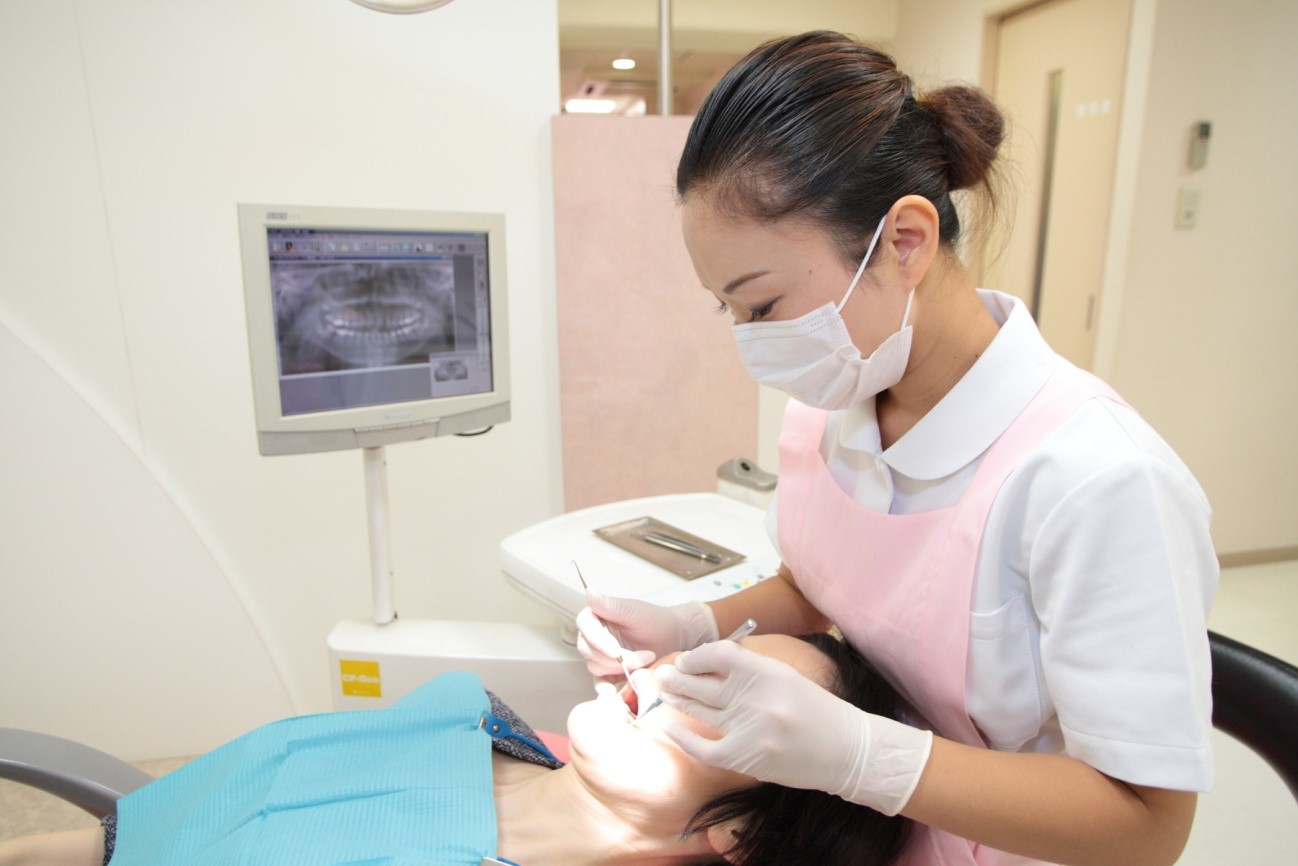
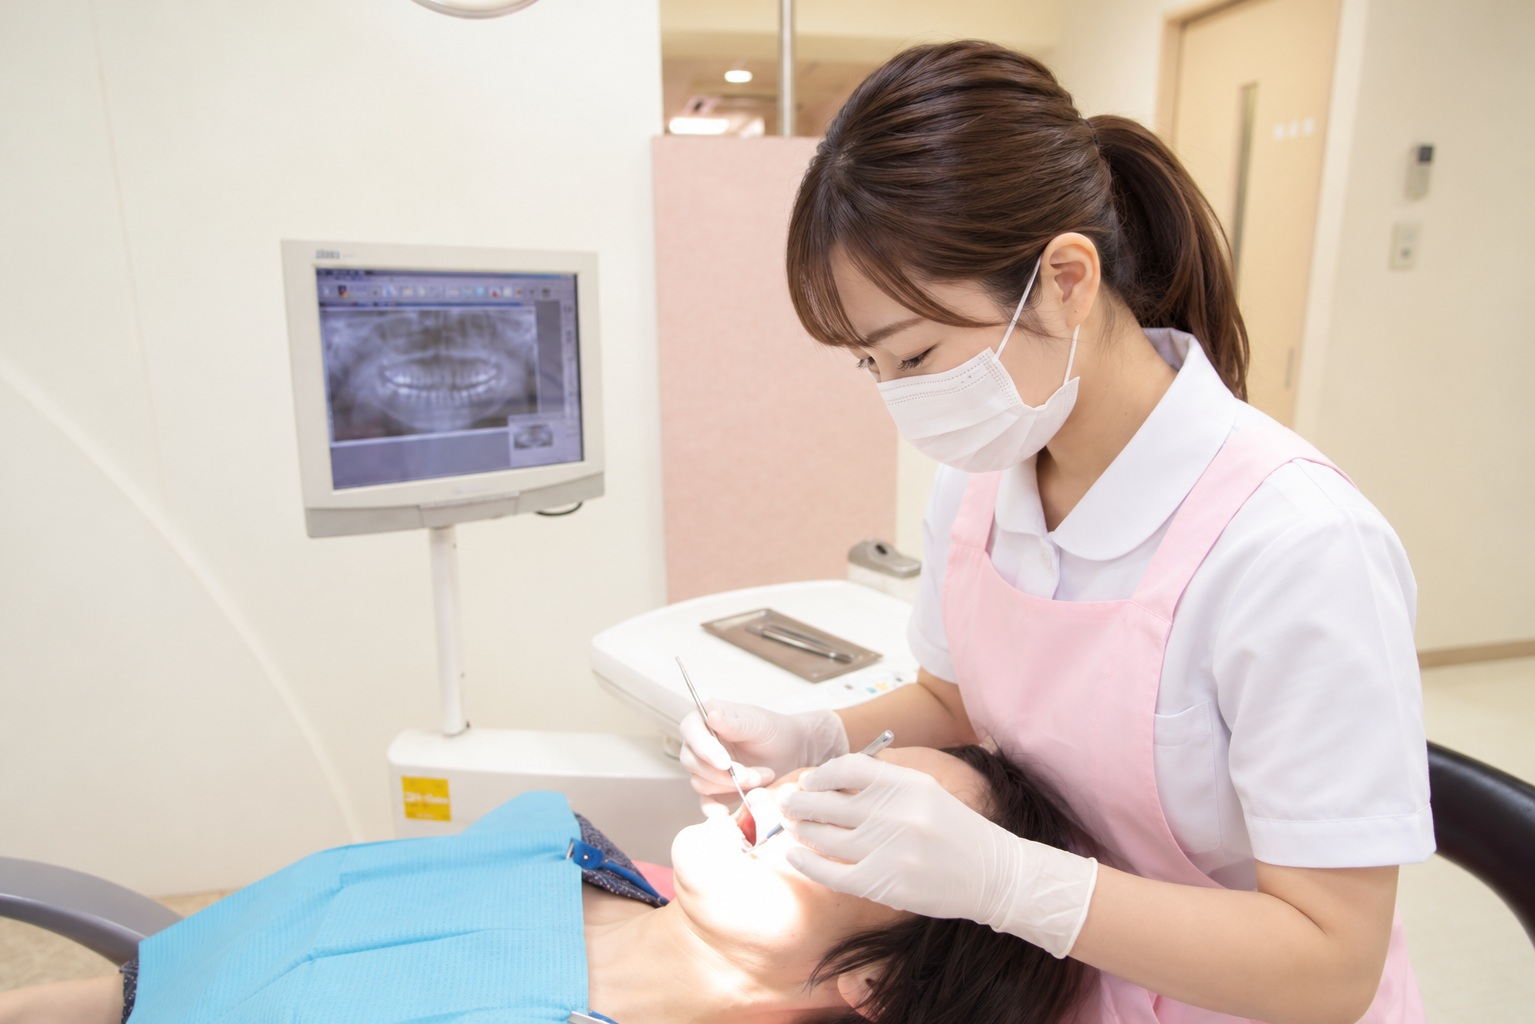
オゾン水生成器の記述削除、画像を別人のものに差し替え

diff --git a/dst/facility.html b/dst/facility.html
@@ -1,4 +1,4 @@
-<!doctype html><html lang="ja" dir="ltr" prefix="og: http://ogp.me/ns#"><head><script async src="https://www.googletagmanager.com/gtag/js?id=UA-51349924-1"></script><script>function gtag(){dataLayer.push(arguments)}window.dataLayer=window.dataLayer||[],gtag("js",new Date),gtag("config","UA-51349924-1")</script><meta charset="utf-8"><meta http-equiv="X-UA-Compatible" content="IE=edge,chrome=1"><meta name="viewport" content="width=device-width,initial-scale=1,shrink-to-fit=no"><title>院内紹介｜東大阪市 近鉄布施駅前の歯科医院・歯医者｜おかだ歯科クリニック</title><meta name="description" content="大阪・東大阪市近鉄布施駅前のおかだ歯科クリニックの院内紹介ページです。患者さまのプライバシーを守るため隣が見えないように配慮しています。感染予防として、高濃度オゾン水やオートクレーブ（高圧蒸気滅菌器）による滅菌を行っています。"><meta name="format-detection" content="email=no,telephone=no,address=no"><meta name="theme-color" content="#1978db"><link rel="canonical" href="https://okada-dental.org/facility.html"><link rel="stylesheet" href="https://fonts.googleapis.com/css?family=Material+Icons+Outlined"><link rel="stylesheet" href="slick/slick.css"><link rel="stylesheet" href="slick/slick-theme.css"><link rel="preconnect" href="https://fonts.gstatic.com"><link rel="stylesheet" href="https://fonts.googleapis.com/css2?family=Kiwi+Maru:wght@400;500&amp;display=swap"><link rel="stylesheet" href="css/style.css?date=202610261744"><link rel="icon" href="img/common/favicon.ico"><link rel="apple-touch-icon" href="img/common/apple-touch-icon.png"><meta name="msapplication-TileImage" content="img/common/logo.png"><meta name="msapplication-TileColor" content="#1978db"><meta property="og:url" content="https://okada-dental.org/facility.html"><meta property="og:title" content="院内紹介｜東大阪市 近鉄布施駅前の歯科医院・歯医者｜おかだ歯科クリニック"><meta property="og:site_name"><meta property="og:description" content="大阪・東大阪市近鉄布施駅前のおかだ歯科クリニックの院内紹介ページです。患者さまのプライバシーを守るため隣が見えないように配慮しています。感染予防として、高濃度オゾン水やオートクレーブ（高圧蒸気滅菌器）による滅菌を行っています。"><meta property="og:type" content="website"><meta property="og:image" content="https://okada-dental.org/img/common/ogp.jpg"><meta property="og:image:alt" content=""><meta property="og:locale" content="ja_JP"><meta name="twitter:card" content="summary_large_image"></head><body class="facility"><header class="header"><p class="headerLogo"><a href="index.html"><img src="img/common/logo.png" alt="大阪・東大阪市長堂布施駅前のおかだ歯科クリニック"></a></p><nav class="headerNavSp"><ul class="headerNavSp__menu"><li class="headerNavSp__menu__item--1"><a href="tel:0667839977"></a></li><li class="headerNavSp__menu__item--2"><a href="access.html"></a></li></ul></nav><nav class="headerNavPc"><ul class="headerNavPc__menu"><li class="headerNavPc__menu__item"><a href="index.html">トップページ<br><span>TOP</span></a></li><li class="headerNavPc__menu__item"><a href="doctor.html">ドクター紹介<br><span>DOCTOR</span></a></li><li class="headerNavPc__menu__item"><a href="#">医院紹介<br><span>ABOUT</span></a><ul class="headerNavPc__menu__item__submenu"><li class="headerNavPc__menu__item__submenu__item"><a href="concept.html">医院の特徴<br><span>CONCEPT</span></a></li><li class="headerNavPc__menu__item__submenu__item"><a href="facility.html">院内紹介<br><span>FACILITY</span></a></li></ul></li><li class="headerNavPc__menu__item"><a href="#">診療メニュー<br><span>SERVICE</span></a><ul class="headerNavPc__menu__item__submenu"><li class="headerNavPc__menu__item__submenu__item"><a href="general.html">一般歯科<br><span>GENERAL</span></a></li><li class="headerNavPc__menu__item__submenu__item"><a href="perio.html">歯周病<br><span>PERIO</span></a></li><li class="headerNavPc__menu__item__submenu__item"><a href="orthodontic.html">矯正歯科<br><span>ORTHODONTIC</span></a></li><li class="headerNavPc__menu__item__submenu__item"><a href="ceramic.html">セラミック治療<br><span>CERAMIC</span></a></li><li class="headerNavPc__menu__item__submenu__item"><a href="whitening.html">ホワイトニング<br><span>WHITENING</span></a></li><li class="headerNavPc__menu__item__submenu__item"><a href="implant.html">インプラント治療<br><span>IMPLANT</span></a></li><li class="headerNavPc__menu__item__submenu__item"><a href="denture.html">入れ歯の治療<br><span>DENTURE</span></a></li></ul></li><li class="headerNavPc__menu__item"><a href="price.html">料金<br><span>PRICE</span></a></li><li class="headerNavPc__menu__item"><a href="access.html">アクセス<br><span>ACCESS</span></a></li><li class="headerNavPc__menu__item"><a href="reservation.html">診療予約<br><span>RESERVATION</span></a></li></ul></nav></header><nav class="gnav"><div class="gnavToggle"><span class="gnavToggle__btn--open"></span></div><nav class="navContent"><ul class="navContent__menu"><li class="navContent__menu__item"><a href="index.html">トップページ&emsp;<span>TOP</span></a></li><li class="navContent__menu__item"><a href="doctor.html">ドクター紹介&emsp;<span>DOCTOR</span></a></li><li class="navContent__menu__item"><a href="#">医院紹介&emsp;<span>ABOUT</span></a><ul class="navContent__menu__item__submenu"><li class="navContent__menu__item__submenu__item"><a href="concept.html">医院の特徴&emsp;<span>CONCEPT</span></a></li><li class="navContent__menu__item__submenu__item"><a href="facility.html">院内紹介&emsp;<span>FACILITY</span></a></li></ul></li><li class="navContent__menu__item"><a href="#">診療メニュー&emsp;<span>SERVICE</span></a><ul class="navContent__menu__item__submenu"><li class="navContent__menu__item__submenu__item"><a href="general.html">一般歯科&emsp;<span>GENERAL</span></a></li><li class="navContent__menu__item__submenu__item"><a href="perio.html">歯周病&emsp;<span>PERIO</span></a></li><li class="navContent__menu__item__submenu__item"><a href="orthodontic.html">矯正歯科&emsp;<span>ORTHODONTIC</span></a></li><li class="navContent__menu__item__submenu__item"><a href="ceramic.html">セラミック治療&emsp;<span>CERAMIC</span></a></li><li class="navContent__menu__item__submenu__item"><a href="whitening.html">ホワイトニング&emsp;<span>WHITENING</span></a></li><li class="navContent__menu__item__submenu__item"><a href="implant.html">インプラント治療&emsp;<span>IMPLANT</span></a></li><li class="navContent__menu__item__submenu__item"><a href="denture.html">入れ歯の治療&emsp;<span>DENTURE</span></a></li></ul></li><li class="navContent__menu__item"><a href="price.html">料金&emsp;<span>PRICE</span></a></li><li class="navContent__menu__item"><a href="access.html">アクセス&emsp;<span>ACCESS</span></a></li><li class="navContent__menu__item"><a href="reservation.html">診療予約&emsp;<span>RESERVATION</span></a></li></ul></nav></nav><main class="facility__main"><h1 class="ttl--1">院内紹介&emsp;<span>FACILITY</span></h1><section><h2 class="ttl--2">■&ensp;診察室</h2><div class="imgDesc"><img class="imgDesc__img" src="img/facility/examRoom.jpg" alt="診療室"><p class="imgDesc__desc">各チェアはパーテーションで仕切られており隣が見えないように配慮しています。</p></div></section><section><h2 class="ttl--2">■&ensp;レントゲン</h2><div class="imgs3"><div class="imgs3__item"><img src="img/facility/xRay.jpg" alt="レントゲン"></div><div class="imgs3__item"><img src="img/facility/xRayImg.jpg" alt="レントゲン"></div><div class="imgs3__item"><img src="img/facility/xRayResult.jpg" alt="レントゲン"></div></div><p>当院では、デジタルＸ線画像解析システムを使用しております。<br>フィルムの代わりに高感度CCDセンサーを使用しているため、Ｘ線照射による被曝を軽減（被曝を最大90％以上軽減）できます。そのため、人体への被曝はほぼ無視できるレベルとなります。<br>また、Ｘ線は顔面部のみに照射しますので妊娠中の患者様も安心してレントゲン検査を受けていただけます<br>段階的に拡大等も出来る為、正確な診断にも役立ちます。</p></section><section><h2 class="ttl--2">■&ensp;ルーペ（拡大鏡）</h2><div class="imgDesc"><img class="imgDesc__img" src="img/facility/loupe.jpg" alt="ルーペ（拡大鏡）"><p class="imgDesc__desc">治療によって倍率の違うルーペを使い分けて診療しております。ルーペを使うことでより精度の高い治療ができます。</p></div></section><section><h2 class="ttl--2">■&ensp;CO2レーザー（炭酸ガスレーザー，opelaser pro）</h2><div class="imgDesc"><img class="imgDesc__img" src="img/facility/laser.jpg" alt="CO2レーザー（炭酸ガスレーザー，opelaser pro）"><p class="imgDesc__desc">当院ではCO2レーザーを治療に活用しています。<br>CO2レーザーは、殺菌消毒、鎮痛、消炎、切開、止血等に有効で、特に痛みを和らげたり治癒を促進します。<br>歯周病、親知らずの痛み、口内炎、顎関節症、インプラント等、幅広く使用しています。</p></div></section><section><h2 class="ttl--2">■&ensp;オゾン水生成器</h2><div class="imgDesc"><img class="imgDesc__img" src="img/facility/ozonatedWater.png" alt="オゾン水生成器 pro）"><p class="imgDesc__desc">オゾン水は残留性がなく安全性が高い除菌、洗浄剤で、器具などに付着している細菌に対して、強力な殺菌、除菌効果があります。<br>当院ではオゾン水を導入してから新しい器械が出ると買い替えを行い現在3台目となります。<br>現在使用しているオゾン水生成器は4ppm(mg/L)以上の高濃度オゾン水を作ることができ、使用器具の確実な除菌を実現しています。</p></div></section><section><h2 class="ttl--2">■&ensp;高圧蒸気滅菌器（オートクレーブ）</h2><div class="imgDesc"><img class="imgDesc__img" src="img/facility/autoclave.jpg" alt="高圧蒸気滅菌器（オートクレーブ）"><p class="imgDesc__desc">高圧蒸気で治療に使用する器具を滅菌します。</p></div></section><section><h2 class="ttl--2">■&ensp;ピエゾサージェリー</h2><div class="imgDesc"><img class="imgDesc__img" src="img/facility/piezosurgery.jpg" alt="ピエゾサージェリー"><p class="imgDesc__desc">ピエゾサージェリーは、超音波を利用して骨を切削する手術用医療機器です。<br>骨の中や周囲には血管や神経、軟組織がありますが、この機器は骨にしか反応しませんので、これらを傷つけることなく、安全に手術をすすめることができます。<br>さらに骨へのダメージも少ないため治癒も早まります。困難な抜歯やインプラント治療などの外科手術に使用します。</p></div></section></main><footer class="footer"><p class="footer__name">おかだ歯科クリニック</p><p class="footer__address">〒577-0056<br>東大阪市 長堂 1-2-20 陣内ビル2階</p><small class="footer__copyright">&copy;2026 おかだ歯科クリニック ALL RIGHTS RESERVED.</small></footer><script src="https://ajax.googleapis.com/ajax/libs/jquery/3.6.0/jquery.min.js"></script><script src="slick/slick.min.js"></script><script src="js/nav.js"></script><script type="application/ld+json">{
+<!doctype html><html lang="ja" dir="ltr" prefix="og: http://ogp.me/ns#"><head><script async src="https://www.googletagmanager.com/gtag/js?id=UA-51349924-1"></script><script>function gtag(){dataLayer.push(arguments)}window.dataLayer=window.dataLayer||[],gtag("js",new Date),gtag("config","UA-51349924-1")</script><meta charset="utf-8"><meta http-equiv="X-UA-Compatible" content="IE=edge,chrome=1"><meta name="viewport" content="width=device-width,initial-scale=1,shrink-to-fit=no"><title>院内紹介｜東大阪市 近鉄布施駅前の歯科医院・歯医者｜おかだ歯科クリニック</title><meta name="description" content="大阪・東大阪市近鉄布施駅前のおかだ歯科クリニックの院内紹介ページです。患者さまのプライバシーを守るため隣が見えないように配慮しています。感染予防として、高濃度オゾン水やオートクレーブ（高圧蒸気滅菌器）による滅菌を行っています。"><meta name="format-detection" content="email=no,telephone=no,address=no"><meta name="theme-color" content="#1978db"><link rel="canonical" href="https://okada-dental.org/facility.html"><link rel="stylesheet" href="https://fonts.googleapis.com/css?family=Material+Icons+Outlined"><link rel="stylesheet" href="slick/slick.css"><link rel="stylesheet" href="slick/slick-theme.css"><link rel="preconnect" href="https://fonts.gstatic.com"><link rel="stylesheet" href="https://fonts.googleapis.com/css2?family=Kiwi+Maru:wght@400;500&amp;display=swap"><link rel="stylesheet" href="css/style.css?date=202610261744"><link rel="icon" href="img/common/favicon.ico"><link rel="apple-touch-icon" href="img/common/apple-touch-icon.png"><meta name="msapplication-TileImage" content="img/common/logo.png"><meta name="msapplication-TileColor" content="#1978db"><meta property="og:url" content="https://okada-dental.org/facility.html"><meta property="og:title" content="院内紹介｜東大阪市 近鉄布施駅前の歯科医院・歯医者｜おかだ歯科クリニック"><meta property="og:site_name"><meta property="og:description" content="大阪・東大阪市近鉄布施駅前のおかだ歯科クリニックの院内紹介ページです。患者さまのプライバシーを守るため隣が見えないように配慮しています。感染予防として、高濃度オゾン水やオートクレーブ（高圧蒸気滅菌器）による滅菌を行っています。"><meta property="og:type" content="website"><meta property="og:image" content="https://okada-dental.org/img/common/ogp.jpg"><meta property="og:image:alt" content=""><meta property="og:locale" content="ja_JP"><meta name="twitter:card" content="summary_large_image"></head><body class="facility"><header class="header"><p class="headerLogo"><a href="index.html"><img src="img/common/logo.png" alt="大阪・東大阪市長堂布施駅前のおかだ歯科クリニック"></a></p><nav class="headerNavSp"><ul class="headerNavSp__menu"><li class="headerNavSp__menu__item--1"><a href="tel:0667839977"></a></li><li class="headerNavSp__menu__item--2"><a href="access.html"></a></li></ul></nav><nav class="headerNavPc"><ul class="headerNavPc__menu"><li class="headerNavPc__menu__item"><a href="index.html">トップページ<br><span>TOP</span></a></li><li class="headerNavPc__menu__item"><a href="doctor.html">ドクター紹介<br><span>DOCTOR</span></a></li><li class="headerNavPc__menu__item"><a href="#">医院紹介<br><span>ABOUT</span></a><ul class="headerNavPc__menu__item__submenu"><li class="headerNavPc__menu__item__submenu__item"><a href="concept.html">医院の特徴<br><span>CONCEPT</span></a></li><li class="headerNavPc__menu__item__submenu__item"><a href="facility.html">院内紹介<br><span>FACILITY</span></a></li></ul></li><li class="headerNavPc__menu__item"><a href="#">診療メニュー<br><span>SERVICE</span></a><ul class="headerNavPc__menu__item__submenu"><li class="headerNavPc__menu__item__submenu__item"><a href="general.html">一般歯科<br><span>GENERAL</span></a></li><li class="headerNavPc__menu__item__submenu__item"><a href="perio.html">歯周病<br><span>PERIO</span></a></li><li class="headerNavPc__menu__item__submenu__item"><a href="orthodontic.html">矯正歯科<br><span>ORTHODONTIC</span></a></li><li class="headerNavPc__menu__item__submenu__item"><a href="ceramic.html">セラミック治療<br><span>CERAMIC</span></a></li><li class="headerNavPc__menu__item__submenu__item"><a href="whitening.html">ホワイトニング<br><span>WHITENING</span></a></li><li class="headerNavPc__menu__item__submenu__item"><a href="implant.html">インプラント治療<br><span>IMPLANT</span></a></li><li class="headerNavPc__menu__item__submenu__item"><a href="denture.html">入れ歯の治療<br><span>DENTURE</span></a></li></ul></li><li class="headerNavPc__menu__item"><a href="price.html">料金<br><span>PRICE</span></a></li><li class="headerNavPc__menu__item"><a href="access.html">アクセス<br><span>ACCESS</span></a></li><li class="headerNavPc__menu__item"><a href="reservation.html">診療予約<br><span>RESERVATION</span></a></li></ul></nav></header><nav class="gnav"><div class="gnavToggle"><span class="gnavToggle__btn--open"></span></div><nav class="navContent"><ul class="navContent__menu"><li class="navContent__menu__item"><a href="index.html">トップページ&emsp;<span>TOP</span></a></li><li class="navContent__menu__item"><a href="doctor.html">ドクター紹介&emsp;<span>DOCTOR</span></a></li><li class="navContent__menu__item"><a href="#">医院紹介&emsp;<span>ABOUT</span></a><ul class="navContent__menu__item__submenu"><li class="navContent__menu__item__submenu__item"><a href="concept.html">医院の特徴&emsp;<span>CONCEPT</span></a></li><li class="navContent__menu__item__submenu__item"><a href="facility.html">院内紹介&emsp;<span>FACILITY</span></a></li></ul></li><li class="navContent__menu__item"><a href="#">診療メニュー&emsp;<span>SERVICE</span></a><ul class="navContent__menu__item__submenu"><li class="navContent__menu__item__submenu__item"><a href="general.html">一般歯科&emsp;<span>GENERAL</span></a></li><li class="navContent__menu__item__submenu__item"><a href="perio.html">歯周病&emsp;<span>PERIO</span></a></li><li class="navContent__menu__item__submenu__item"><a href="orthodontic.html">矯正歯科&emsp;<span>ORTHODONTIC</span></a></li><li class="navContent__menu__item__submenu__item"><a href="ceramic.html">セラミック治療&emsp;<span>CERAMIC</span></a></li><li class="navContent__menu__item__submenu__item"><a href="whitening.html">ホワイトニング&emsp;<span>WHITENING</span></a></li><li class="navContent__menu__item__submenu__item"><a href="implant.html">インプラント治療&emsp;<span>IMPLANT</span></a></li><li class="navContent__menu__item__submenu__item"><a href="denture.html">入れ歯の治療&emsp;<span>DENTURE</span></a></li></ul></li><li class="navContent__menu__item"><a href="price.html">料金&emsp;<span>PRICE</span></a></li><li class="navContent__menu__item"><a href="access.html">アクセス&emsp;<span>ACCESS</span></a></li><li class="navContent__menu__item"><a href="reservation.html">診療予約&emsp;<span>RESERVATION</span></a></li></ul></nav></nav><main class="facility__main"><h1 class="ttl--1">院内紹介&emsp;<span>FACILITY</span></h1><section><h2 class="ttl--2">■&ensp;診察室</h2><div class="imgDesc"><img class="imgDesc__img" src="img/facility/examRoom.jpg" alt="診療室"><p class="imgDesc__desc">各チェアはパーテーションで仕切られており隣が見えないように配慮しています。</p></div></section><section><h2 class="ttl--2">■&ensp;レントゲン</h2><div class="imgs3"><div class="imgs3__item"><img src="img/facility/xRay.jpg" alt="レントゲン"></div><div class="imgs3__item"><img src="img/facility/xRayImg.jpg" alt="レントゲン"></div><div class="imgs3__item"><img src="img/facility/xRayResult.jpg" alt="レントゲン"></div></div><p>当院では、デジタルＸ線画像解析システムを使用しております。<br>フィルムの代わりに高感度CCDセンサーを使用しているため、Ｘ線照射による被曝を軽減（被曝を最大90％以上軽減）できます。そのため、人体への被曝はほぼ無視できるレベルとなります。<br>また、Ｘ線は顔面部のみに照射しますので妊娠中の患者様も安心してレントゲン検査を受けていただけます<br>段階的に拡大等も出来る為、正確な診断にも役立ちます。</p></section><section><h2 class="ttl--2">■&ensp;ルーペ（拡大鏡）</h2><div class="imgDesc"><img class="imgDesc__img" src="img/facility/loupe.jpg" alt="ルーペ（拡大鏡）"><p class="imgDesc__desc">治療によって倍率の違うルーペを使い分けて診療しております。ルーペを使うことでより精度の高い治療ができます。</p></div></section><section><h2 class="ttl--2">■&ensp;CO2レーザー（炭酸ガスレーザー，opelaser pro）</h2><div class="imgDesc"><img class="imgDesc__img" src="img/facility/laser.jpg" alt="CO2レーザー（炭酸ガスレーザー，opelaser pro）"><p class="imgDesc__desc">当院ではCO2レーザーを治療に活用しています。<br>CO2レーザーは、殺菌消毒、鎮痛、消炎、切開、止血等に有効で、特に痛みを和らげたり治癒を促進します。<br>歯周病、親知らずの痛み、口内炎、顎関節症、インプラント等、幅広く使用しています。</p></div></section><section><h2 class="ttl--2">■&ensp;高圧蒸気滅菌器（オートクレーブ）</h2><div class="imgDesc"><img class="imgDesc__img" src="img/facility/autoclave.jpg" alt="高圧蒸気滅菌器（オートクレーブ）"><p class="imgDesc__desc">高圧蒸気で治療に使用する器具を滅菌します。</p></div></section><section><h2 class="ttl--2">■&ensp;ピエゾサージェリー</h2><div class="imgDesc"><img class="imgDesc__img" src="img/facility/piezosurgery.jpg" alt="ピエゾサージェリー"><p class="imgDesc__desc">ピエゾサージェリーは、超音波を利用して骨を切削する手術用医療機器です。<br>骨の中や周囲には血管や神経、軟組織がありますが、この機器は骨にしか反応しませんので、これらを傷つけることなく、安全に手術をすすめることができます。<br>さらに骨へのダメージも少ないため治癒も早まります。困難な抜歯やインプラント治療などの外科手術に使用します。</p></div></section></main><footer class="footer"><p class="footer__name">おかだ歯科クリニック</p><p class="footer__address">〒577-0056<br>東大阪市 長堂 1-2-20 陣内ビル2階</p><small class="footer__copyright">&copy;2026 おかだ歯科クリニック ALL RIGHTS RESERVED.</small></footer><script src="https://ajax.googleapis.com/ajax/libs/jquery/3.6.0/jquery.min.js"></script><script src="slick/slick.min.js"></script><script src="js/nav.js"></script><script type="application/ld+json">{
         "@context":"https://schema.org",
         "@type":"BreadcrumbList",
         "itemListElement": [
